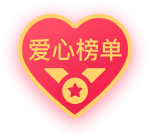
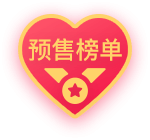
update

Changed region(s): [[0.1867, 0.2571, 0.5067, 0.4571]]

diff --git a/activity/preview161218/sass/presale.scss b/activity/preview161218/sass/presale.scss
@@ -201,7 +201,7 @@
 }
 
 .icon-list {
-	@include background('../images/icon-list.png', 150px, 140px);
+	@include background('../images/icon-list.png?v=2016121201', 150px, 140px);
 	position: absolute;
 	right: pxToRem(10px);
 	bottom: pxToRem(124px);

diff --git a/activity/preview161218/sass/loveList.scss b/activity/preview161218/sass/loveList.scss
@@ -9,7 +9,7 @@
 }
 
 .icon-l-title {
-    @include background('../images/l-title.png', 611px, 54px);
+    @include background('../images/l-title.png?v=2016121201', 418px, 52px);
     margin: auto;
     margin-top: pxToRem(56px);
 }
